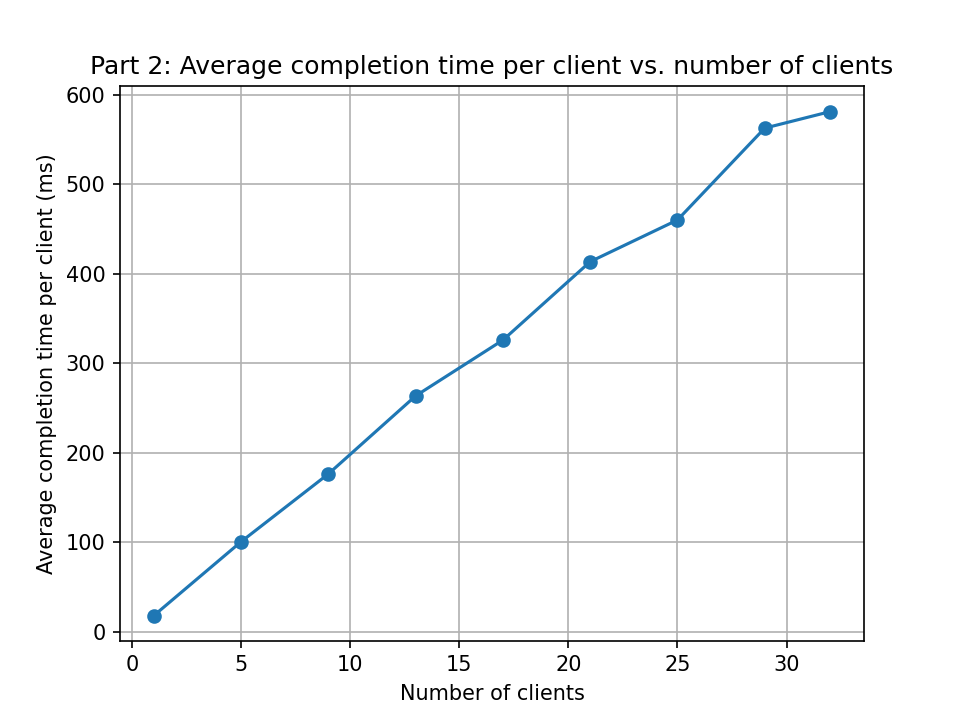
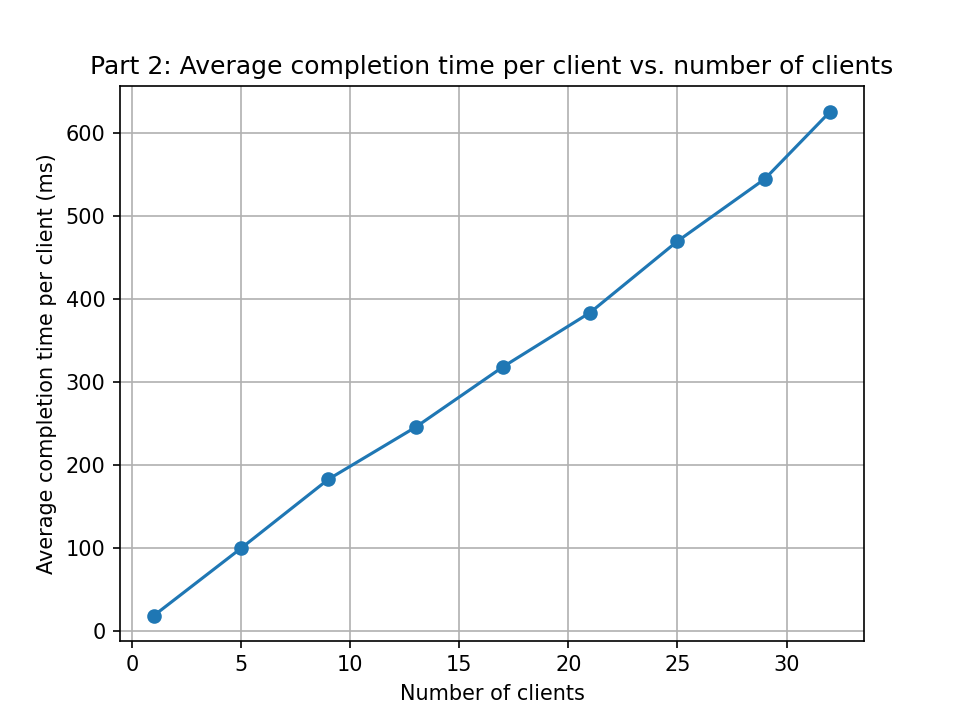
part2 done

diff --git a/part2/run_experiments.py b/part2/run_experiments.py
@@ -8,7 +8,7 @@ from mininet.cli import CLI
 
 # Config
 NUM_CLIENTS_VALUES = [1, 5, 9, 13, 17, 21, 25, 29, 32]
-RUNS_PER_SETTING = 5
+RUNS_PER_SETTING = 2
 SERVER_CMD = "python3 server.py --config config.json"
 CLIENT_CMD_TMPL = "python3 client.py --config config.json --quiet"
 
